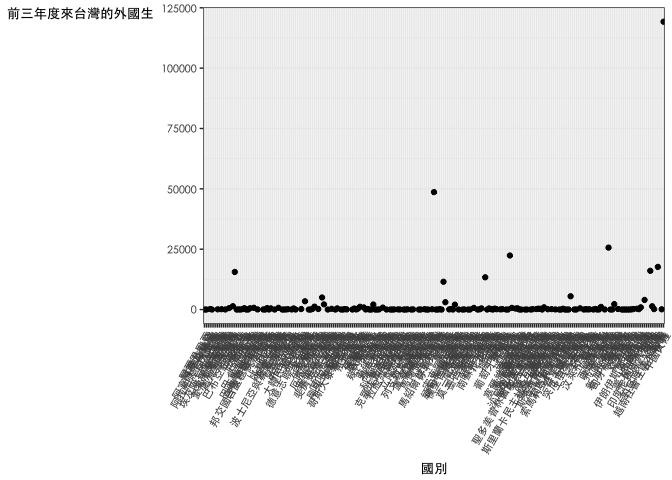
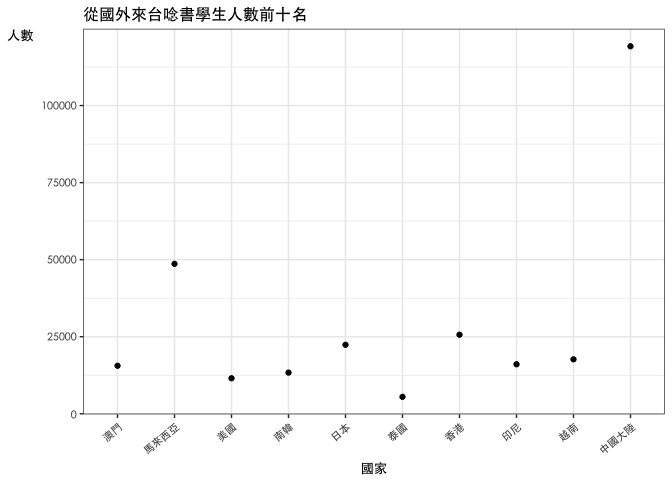
final

diff --git a/InternationalStudents.md b/InternationalStudents.md
@@ -14,6 +14,7 @@
 ``` r
 #這是R Code Chunk
 
+##依照國家分類
 library(readr)
 X104 <- read_csv("~/Downloads/104.csv")
 ```
@@ -86,7 +87,7 @@ X106$各國人數加總106<-rowSums(X106[,3:11])
 X106new<-X106[,c(T,T,F,F,F,F,F,F,F,F,F,T)]
 
 
-#依照校別
+#依照校別分類
 library(readr)
 X104school <- read_csv("~/Downloads/104school.csv")
 ```
@@ -282,6 +283,7 @@ Countrychang<-Countryname[,c(F,T,F,F,F,F,T,F,F)]
 colnames(Countrychang)<-c("國家名稱縮寫", "國別")
 library(dplyr)
 J040506new<-left_join(J040506,Countrychang,by="國別")
+
 J040506new$國家名稱縮寫[1]<-("CHN")
 J040506new$國家名稱縮寫[8]<-("KOR")
 J040506new$國家名稱縮寫[12]<-("SGP")
@@ -354,9 +356,9 @@ p
 
 <!--html_preserve-->
 
-<script type="application/json" data-for="63d66d7bd32f">{"x":{"visdat":{"63d630b9560":["function () ","plotlyVisDat"]},"cur_data":"63d630b9560","attrs":{"63d630b9560":{"z":{},"text":{},"locations":{},"marker":{"line":{"color":"rgba(190,190,190,1)","width":0.8}},"color":{},"colors":"Purples","alpha":1,"sizes":[10,100],"type":"choropleth"}},"layout":{"margin":{"b":40,"l":60,"t":25,"r":10},"title":"Numbers of All exchange students","geo":{"showframe":false,"showcountries":true,"showcoastlines":true,"coastlinecolor":"rgba(190,190,190,1)","countrycolor":"rgba(190,190,190,1)"},"scene":{"zaxis":{"title":"三年度加總"}},"xaxis":{"domain":[0,1]},"yaxis":{"domain":[0,1]},"hovermode":"closest","showlegend":false,"legend":{"y":0.5,"yanchor":"top"}},"source":"A","config":{"modeBarButtonsToAdd":[{"name":"Collaborate","icon":{"width":1000,"ascent":500,"descent":-50,"path":"M487 375c7-10 9-23 5-36l-79-259c-3-12-11-23-22-31-11-8-22-12-35-12l-263 0c-15 0-29 5-43 15-13 10-23 23-28 37-5 13-5 25-1 37 0 0 0 3 1 7 1 5 1 8 1 11 0 2 0 4-1 6 0 3-1 5-1 6 1 2 2 4 3 6 1 2 2 4 4 6 2 3 4 5 5 7 5 7 9 16 13 26 4 10 7 19 9 26 0 2 0 5 0 9-1 4-1 6 0 8 0 2 2 5 4 8 3 3 5 5 5 7 4 6 8 15 12 26 4 11 7 19 7 26 1 1 0 4 0 9-1 4-1 7 0 8 1 2 3 5 6 8 4 4 6 6 6 7 4 5 8 13 13 24 4 11 7 20 7 28 1 1 0 4 0 7-1 3-1 6-1 7 0 2 1 4 3 6 1 1 3 4 5 6 2 3 3 5 5 6 1 2 3 5 4 9 2 3 3 7 5 10 1 3 2 6 4 10 2 4 4 7 6 9 2 3 4 5 7 7 3 2 7 3 11 3 3 0 8 0 13-1l0-1c7 2 12 2 14 2l218 0c14 0 25-5 32-16 8-10 10-23 6-37l-79-259c-7-22-13-37-20-43-7-7-19-10-37-10l-248 0c-5 0-9-2-11-5-2-3-2-7 0-12 4-13 18-20 41-20l264 0c5 0 10 2 16 5 5 3 8 6 10 11l85 282c2 5 2 10 2 17 7-3 13-7 17-13z m-304 0c-1-3-1-5 0-7 1-1 3-2 6-2l174 0c2 0 4 1 7 2 2 2 4 4 5 7l6 18c0 3 0 5-1 7-1 1-3 2-6 2l-173 0c-3 0-5-1-8-2-2-2-4-4-4-7z m-24-73c-1-3-1-5 0-7 2-2 3-2 6-2l174 0c2 0 5 0 7 2 3 2 4 4 5 7l6 18c1 2 0 5-1 6-1 2-3 3-5 3l-174 0c-3 0-5-1-7-3-3-1-4-4-5-6z"},"click":"function(gd) { \n        // is this being viewed in RStudio?\n        if (location.search == '?viewer_pane=1') {\n          alert('To learn about plotly for collaboration, visit:\\n https://cpsievert.github.io/plotly_book/plot-ly-for-collaboration.html');\n        } else {\n          window.open('https://cpsievert.github.io/plotly_book/plot-ly-for-collaboration.html', '_blank');\n        }\n      }"}],"cloud":false},"data":[{"colorbar":{"title":"三年度加總","ticklen":2,"len":0.5,"y":1,"lenmode":"fraction","yanchor":"top"},"colorscale":[["0","rgba(252,251,253,1)"],["8.38679917809368e-06","rgba(252,251,253,1)"],["2.02680980137264e-05","rgba(252,251,253,1)"],["3.04021470205896e-05","rgba(252,251,253,1)"],["4.19339958904684e-05","rgba(252,251,253,1)"],["5.03207950685621e-05","rgba(252,251,253,1)"],["6.91910932192729e-05","rgba(252,251,253,1)"],["9.22547909590305e-05","rgba(252,251,253,1)"],["0.00011461958876728","rgba(252,251,253,1)"],["0.00015934918438378","rgba(252,251,253,1)"],["0.000278861072671615","rgba(252,251,253,1)"],["0.000370416963699137","rgba(252,251,253,1)"],["0.00047804755315134","rgba(252,251,253,1)"],["0.000776128373939419","rgba(252,251,253,1)"],["0.00118603318376875","rgba(252,251,253,1)"],["0.00149704365328972","rgba(252,251,253,1)"],["0.00171649823178317","rgba(252,251,253,1)"],["0.00243147286171566","rgba(252,251,253,1)"],["0.00344068436281293","rgba(252,251,253,1)"],["0.00431815322682098","rgba(252,251,253,1)"],["0.00577151563439147","rgba(251,250,253,1)"],["0.00931668553696482","rgba(251,250,252,1)"],["0.0184355823933129","rgba(250,249,252,1)"],["0.108827455584909","rgba(241,239,246,1)"],["1","rgba(63,0,125,1)"]],"showscale":true,"z":[119236,48646,25654,22384,17665,16061,15579,13361,11518,5500,5001,3988,3435,3038,2240,2142,2074,2034,1387,1357,1200,1150,1089,941,923,872,806,721,710,685,673,602,597,555,542,530,517,490,483,483,480,461,425,413,406,386,346,338,329,306,301,279,235,235,227,222,221,207,205,201,197,194,191,189,183,179,163,162,147,146,144,143,143,136,133,124,123,110,99,95,90,90,79,66,65,59,58,58,57,57,53,50,49,48,44,40,39,39,39,38,37,34,34,34,26,25,23,21,20,20,20,20,18,17,15,15,14,14,13,13,12,12,12,12,11,11,11,10,10,10,9,8,8,8,7,7,7,7,6,6,6,6,6,6,6,6,6,5,5,5,5,5,4,4,4,4,4,4,4,3,3,3,3,3,3,2,2,2,1,1,1,1,1,1],"text":["中國大陸","馬來西亞","香港","日本","越南","印尼","澳門","南韓","美國","泰國","法國","印度","德國","蒙古","新加坡","菲律賓","加拿大","緬甸","澳大利亞","英國","俄羅斯","荷蘭","西班牙","史瓦濟蘭","義大利","宏都拉斯","捷克","巴西","波蘭","瑞典","墨西哥","奧地利","貝里斯","巴拉圭","巴拿馬","土耳其","薩爾瓦多","比利時","南非","甘比亞","尼加拉瓜","布吉納法索","海地","瓜地馬拉","瑞士","紐西蘭","聖露西亞","索羅門群島","衣索比亞","芬蘭","聖文森","多明尼加","匈牙利","厄瓜多","吉里巴斯","烏克蘭","聖克里斯多福","丹麥","阿根廷","秘魯","伊朗","哥倫比亞","約旦","斯洛伐克","尼泊爾","巴基斯坦","葡萄牙","以色列","帛琉","馬紹爾群島共和國","愛爾蘭","聖多美普林西比","羅馬尼亞","挪威","吐瓦魯","斯里蘭卡","馬拉威","智利","汶萊","埃及","奈及利亞","立陶宛","諾魯","肯亞","哥斯大黎加","斯洛維尼亞","孟加拉","巴布亞紐幾內亞","寮國","委內瑞拉","白俄羅斯","摩洛哥","伊拉克","克羅埃西亞","哈薩克","玻利維亞","吉爾吉斯","柬埔寨","希臘","不丹","烏茲別克","保加利亞","拉脫維亞","愛沙尼亞","辛巴威","坦尚尼亞","葉門","盧森堡","塔吉克","突尼西亞","烏干達","塞爾維亞共和國","剛果","巴勒斯坦","喀麥隆","象牙海岸","模里西斯","烏拉圭","斐濟","尚比亞","阿拉伯聯合大公國","亞美尼亞","莫三比克","查德","沙烏地阿拉伯","土庫曼","蒲隆地","波札那","阿爾及利亞","波士尼亞與赫塞哥維納","貝南","敘利亞","蘇丹","冰島","黎巴嫩","馬其頓","千里達","牙買加","巴林","多哥","加彭","盧安達","塞內加爾","科索沃共和國","剛果民主共和國","索馬利蘭共和國","巴哈馬","獅子山共和國","納米比亞","馬爾他","摩納哥","巴貝多","科威特","亞塞拜然","賴比瑞亞","馬達加斯加","多米尼克","阿爾巴尼亞","蓋亞那","摩爾多瓦","迦納","利比亞","古巴","賽普勒斯","南蘇丹共和國","索馬利亞民主共和國","幾內亞","蘇利南","密克羅尼西亞","茅利塔尼亞","尼日","北韓","幾內亞比索","馬利"],"locations":["中國大陸","馬來西亞","香港","日本","越南","印尼","澳門","南韓","美國","泰國","法國","印度","德國","蒙古","新加坡","菲律賓","加拿大","緬甸","澳大利亞","英國","俄羅斯","荷蘭","西班牙","史瓦濟蘭","義大利","宏都拉斯","捷克","巴西","波蘭","瑞典","墨西哥","奧地利","貝里斯","巴拉圭","巴拿馬","土耳其","薩爾瓦多","比利時","南非","甘比亞","尼加拉瓜","布吉納法索","海地","瓜地馬拉","瑞士","紐西蘭","聖露西亞","索羅門群島","衣索比亞","芬蘭","聖文森","多明尼加","匈牙利","厄瓜多","吉里巴斯","烏克蘭","聖克里斯多福","丹麥","阿根廷","秘魯","伊朗","哥倫比亞","約旦","斯洛伐克","尼泊爾","巴基斯坦","葡萄牙","以色列","帛琉","馬紹爾群島共和國","愛爾蘭","聖多美普林西比","羅馬尼亞","挪威","吐瓦魯","斯里蘭卡","馬拉威","智利","汶萊","埃及","奈及利亞","立陶宛","諾魯","肯亞","哥斯大黎加","斯洛維尼亞","孟加拉","巴布亞紐幾內亞","寮國","委內瑞拉","白俄羅斯","摩洛哥","伊拉克","克羅埃西亞","哈薩克","玻利維亞","吉爾吉斯","柬埔寨","希臘","不丹","烏茲別克","保加利亞","拉脫維亞","愛沙尼亞","辛巴威","坦尚尼亞","葉門","盧森堡","塔吉克","突尼西亞","烏干達","塞爾維亞共和國","剛果","巴勒斯坦","喀麥隆","象牙海岸","模里西斯","烏拉圭","斐濟","尚比亞","阿拉伯聯合大公國","亞美尼亞","莫三比克","查德","沙烏地阿拉伯","土庫曼","蒲隆地","波札那","阿爾及利亞","波士尼亞與赫塞哥維納","貝南","敘利亞","蘇丹","冰島","黎巴嫩","馬其頓","千里達","牙買加","巴林","多哥","加彭","盧安達","塞內加爾","科索沃共和國","剛果民主共和國","索馬利蘭共和國","巴哈馬","獅子山共和國","納米比亞","馬爾他","摩納哥","巴貝多","科威特","亞塞拜然","賴比瑞亞","馬達加斯加","多米尼克","阿爾巴尼亞","蓋亞那","摩爾多瓦","迦納","利比亞","古巴","賽普勒斯","南蘇丹共和國","索馬利亞民主共和國","幾內亞","蘇利南","密克羅尼西亞","茅利塔尼亞","尼日","北韓","幾內亞比索","馬利"],"marker":{"line":{"color":"rgba(190,190,190,1)","width":0.8}},"type":"choropleth","frame":null}],"highlight":{"on":"plotly_click","persistent":false,"dynamic":false,"selectize":false,"opacityDim":0.2,"selected":{"opacity":1}},"base_url":"https://plot.ly"},"evals":["config.modeBarButtonsToAdd.0.click"],"jsHooks":{"render":[{"code":"function(el, x) { var ctConfig = crosstalk.var('plotlyCrosstalkOpts').set({\"on\":\"plotly_click\",\"persistent\":false,\"dynamic\":false,\"selectize\":false,\"opacityDim\":0.2,\"selected\":{\"opacity\":1}}); }","data":null}]}}</script>
+<script type="application/json" data-for="65e06f4a4487">{"x":{"visdat":{"65e0432bc7cc":["function () ","plotlyVisDat"]},"cur_data":"65e0432bc7cc","attrs":{"65e0432bc7cc":{"z":{},"text":{},"locations":{},"marker":{"line":{"color":"rgba(190,190,190,1)","width":0.8}},"color":{},"colors":"Purples","alpha":1,"sizes":[10,100],"type":"choropleth"}},"layout":{"margin":{"b":40,"l":60,"t":25,"r":10},"title":"Numbers of All exchange students","geo":{"showframe":false,"showcountries":true,"showcoastlines":true,"coastlinecolor":"rgba(190,190,190,1)","countrycolor":"rgba(190,190,190,1)"},"scene":{"zaxis":{"title":"三年度加總"}},"xaxis":{"domain":[0,1]},"yaxis":{"domain":[0,1]},"hovermode":"closest","showlegend":false,"legend":{"y":0.5,"yanchor":"top"}},"source":"A","config":{"modeBarButtonsToAdd":[{"name":"Collaborate","icon":{"width":1000,"ascent":500,"descent":-50,"path":"M487 375c7-10 9-23 5-36l-79-259c-3-12-11-23-22-31-11-8-22-12-35-12l-263 0c-15 0-29 5-43 15-13 10-23 23-28 37-5 13-5 25-1 37 0 0 0 3 1 7 1 5 1 8 1 11 0 2 0 4-1 6 0 3-1 5-1 6 1 2 2 4 3 6 1 2 2 4 4 6 2 3 4 5 5 7 5 7 9 16 13 26 4 10 7 19 9 26 0 2 0 5 0 9-1 4-1 6 0 8 0 2 2 5 4 8 3 3 5 5 5 7 4 6 8 15 12 26 4 11 7 19 7 26 1 1 0 4 0 9-1 4-1 7 0 8 1 2 3 5 6 8 4 4 6 6 6 7 4 5 8 13 13 24 4 11 7 20 7 28 1 1 0 4 0 7-1 3-1 6-1 7 0 2 1 4 3 6 1 1 3 4 5 6 2 3 3 5 5 6 1 2 3 5 4 9 2 3 3 7 5 10 1 3 2 6 4 10 2 4 4 7 6 9 2 3 4 5 7 7 3 2 7 3 11 3 3 0 8 0 13-1l0-1c7 2 12 2 14 2l218 0c14 0 25-5 32-16 8-10 10-23 6-37l-79-259c-7-22-13-37-20-43-7-7-19-10-37-10l-248 0c-5 0-9-2-11-5-2-3-2-7 0-12 4-13 18-20 41-20l264 0c5 0 10 2 16 5 5 3 8 6 10 11l85 282c2 5 2 10 2 17 7-3 13-7 17-13z m-304 0c-1-3-1-5 0-7 1-1 3-2 6-2l174 0c2 0 4 1 7 2 2 2 4 4 5 7l6 18c0 3 0 5-1 7-1 1-3 2-6 2l-173 0c-3 0-5-1-8-2-2-2-4-4-4-7z m-24-73c-1-3-1-5 0-7 2-2 3-2 6-2l174 0c2 0 5 0 7 2 3 2 4 4 5 7l6 18c1 2 0 5-1 6-1 2-3 3-5 3l-174 0c-3 0-5-1-7-3-3-1-4-4-5-6z"},"click":"function(gd) { \n        // is this being viewed in RStudio?\n        if (location.search == '?viewer_pane=1') {\n          alert('To learn about plotly for collaboration, visit:\\n https://cpsievert.github.io/plotly_book/plot-ly-for-collaboration.html');\n        } else {\n          window.open('https://cpsievert.github.io/plotly_book/plot-ly-for-collaboration.html', '_blank');\n        }\n      }"}],"cloud":false},"data":[{"colorbar":{"title":"三年度加總","ticklen":2,"len":0.5,"y":1,"lenmode":"fraction","yanchor":"top"},"colorscale":[["0","rgba(252,251,253,1)"],["8.38679917809368e-06","rgba(252,251,253,1)"],["2.02680980137264e-05","rgba(252,251,253,1)"],["3.04021470205896e-05","rgba(252,251,253,1)"],["4.19339958904684e-05","rgba(252,251,253,1)"],["5.03207950685621e-05","rgba(252,251,253,1)"],["6.91910932192729e-05","rgba(252,251,253,1)"],["9.22547909590305e-05","rgba(252,251,253,1)"],["0.00011461958876728","rgba(252,251,253,1)"],["0.00015934918438378","rgba(252,251,253,1)"],["0.000278861072671615","rgba(252,251,253,1)"],["0.000370416963699137","rgba(252,251,253,1)"],["0.00047804755315134","rgba(252,251,253,1)"],["0.000776128373939419","rgba(252,251,253,1)"],["0.00118603318376875","rgba(252,251,253,1)"],["0.00149704365328972","rgba(252,251,253,1)"],["0.00171649823178317","rgba(252,251,253,1)"],["0.00243147286171566","rgba(252,251,253,1)"],["0.00344068436281293","rgba(252,251,253,1)"],["0.00431815322682098","rgba(252,251,253,1)"],["0.00577151563439147","rgba(251,250,253,1)"],["0.00931668553696482","rgba(251,250,252,1)"],["0.0184355823933129","rgba(250,249,252,1)"],["0.108827455584909","rgba(241,239,246,1)"],["1","rgba(63,0,125,1)"]],"showscale":true,"z":[119236,48646,25654,22384,17665,16061,15579,13361,11518,5500,5001,3988,3435,3038,2240,2142,2074,2034,1387,1357,1200,1150,1089,941,923,872,806,721,710,685,673,602,597,555,542,530,517,490,483,483,480,461,425,413,406,386,346,338,329,306,301,279,235,235,227,222,221,207,205,201,197,194,191,189,183,179,163,162,147,146,144,143,143,136,133,124,123,110,99,95,90,90,79,66,65,59,58,58,57,57,53,50,49,48,44,40,39,39,39,38,37,34,34,34,26,25,23,21,20,20,20,20,18,17,15,15,14,14,13,13,12,12,12,12,11,11,11,10,10,10,9,8,8,8,7,7,7,7,6,6,6,6,6,6,6,6,6,5,5,5,5,5,4,4,4,4,4,4,4,3,3,3,3,3,3,2,2,2,1,1,1,1,1,1],"text":["中國大陸","馬來西亞","香港","日本","越南","印尼","澳門","南韓","美國","泰國","法國","印度","德國","蒙古","新加坡","菲律賓","加拿大","緬甸","澳大利亞","英國","俄羅斯","荷蘭","西班牙","史瓦濟蘭","義大利","宏都拉斯","捷克","巴西","波蘭","瑞典","墨西哥","奧地利","貝里斯","巴拉圭","巴拿馬","土耳其","薩爾瓦多","比利時","南非","甘比亞","尼加拉瓜","布吉納法索","海地","瓜地馬拉","瑞士","紐西蘭","聖露西亞","索羅門群島","衣索比亞","芬蘭","聖文森","多明尼加","匈牙利","厄瓜多","吉里巴斯","烏克蘭","聖克里斯多福","丹麥","阿根廷","秘魯","伊朗","哥倫比亞","約旦","斯洛伐克","尼泊爾","巴基斯坦","葡萄牙","以色列","帛琉","馬紹爾群島共和國","愛爾蘭","聖多美普林西比","羅馬尼亞","挪威","吐瓦魯","斯里蘭卡","馬拉威","智利","汶萊","埃及","奈及利亞","立陶宛","諾魯","肯亞","哥斯大黎加","斯洛維尼亞","孟加拉","巴布亞紐幾內亞","寮國","委內瑞拉","白俄羅斯","摩洛哥","伊拉克","克羅埃西亞","哈薩克","玻利維亞","吉爾吉斯","柬埔寨","希臘","不丹","烏茲別克","保加利亞","拉脫維亞","愛沙尼亞","辛巴威","坦尚尼亞","葉門","盧森堡","塔吉克","突尼西亞","烏干達","塞爾維亞共和國","剛果","巴勒斯坦","喀麥隆","象牙海岸","模里西斯","烏拉圭","斐濟","尚比亞","阿拉伯聯合大公國","亞美尼亞","莫三比克","查德","沙烏地阿拉伯","土庫曼","蒲隆地","波札那","阿爾及利亞","波士尼亞與赫塞哥維納","貝南","敘利亞","蘇丹","冰島","黎巴嫩","馬其頓","千里達","牙買加","巴林","多哥","加彭","盧安達","塞內加爾","科索沃共和國","剛果民主共和國","索馬利蘭共和國","巴哈馬","獅子山共和國","納米比亞","馬爾他","摩納哥","巴貝多","科威特","亞塞拜然","賴比瑞亞","馬達加斯加","多米尼克","阿爾巴尼亞","蓋亞那","摩爾多瓦","迦納","利比亞","古巴","賽普勒斯","南蘇丹共和國","索馬利亞民主共和國","幾內亞","蘇利南","密克羅尼西亞","茅利塔尼亞","尼日","北韓","幾內亞比索","馬利"],"locations":["中國大陸","馬來西亞","香港","日本","越南","印尼","澳門","南韓","美國","泰國","法國","印度","德國","蒙古","新加坡","菲律賓","加拿大","緬甸","澳大利亞","英國","俄羅斯","荷蘭","西班牙","史瓦濟蘭","義大利","宏都拉斯","捷克","巴西","波蘭","瑞典","墨西哥","奧地利","貝里斯","巴拉圭","巴拿馬","土耳其","薩爾瓦多","比利時","南非","甘比亞","尼加拉瓜","布吉納法索","海地","瓜地馬拉","瑞士","紐西蘭","聖露西亞","索羅門群島","衣索比亞","芬蘭","聖文森","多明尼加","匈牙利","厄瓜多","吉里巴斯","烏克蘭","聖克里斯多福","丹麥","阿根廷","秘魯","伊朗","哥倫比亞","約旦","斯洛伐克","尼泊爾","巴基斯坦","葡萄牙","以色列","帛琉","馬紹爾群島共和國","愛爾蘭","聖多美普林西比","羅馬尼亞","挪威","吐瓦魯","斯里蘭卡","馬拉威","智利","汶萊","埃及","奈及利亞","立陶宛","諾魯","肯亞","哥斯大黎加","斯洛維尼亞","孟加拉","巴布亞紐幾內亞","寮國","委內瑞拉","白俄羅斯","摩洛哥","伊拉克","克羅埃西亞","哈薩克","玻利維亞","吉爾吉斯","柬埔寨","希臘","不丹","烏茲別克","保加利亞","拉脫維亞","愛沙尼亞","辛巴威","坦尚尼亞","葉門","盧森堡","塔吉克","突尼西亞","烏干達","塞爾維亞共和國","剛果","巴勒斯坦","喀麥隆","象牙海岸","模里西斯","烏拉圭","斐濟","尚比亞","阿拉伯聯合大公國","亞美尼亞","莫三比克","查德","沙烏地阿拉伯","土庫曼","蒲隆地","波札那","阿爾及利亞","波士尼亞與赫塞哥維納","貝南","敘利亞","蘇丹","冰島","黎巴嫩","馬其頓","千里達","牙買加","巴林","多哥","加彭","盧安達","塞內加爾","科索沃共和國","剛果民主共和國","索馬利蘭共和國","巴哈馬","獅子山共和國","納米比亞","馬爾他","摩納哥","巴貝多","科威特","亞塞拜然","賴比瑞亞","馬達加斯加","多米尼克","阿爾巴尼亞","蓋亞那","摩爾多瓦","迦納","利比亞","古巴","賽普勒斯","南蘇丹共和國","索馬利亞民主共和國","幾內亞","蘇利南","密克羅尼西亞","茅利塔尼亞","尼日","北韓","幾內亞比索","馬利"],"marker":{"line":{"color":"rgba(190,190,190,1)","width":0.8}},"type":"choropleth","frame":null}],"highlight":{"on":"plotly_click","persistent":false,"dynamic":false,"selectize":false,"opacityDim":0.2,"selected":{"opacity":1}},"base_url":"https://plot.ly"},"evals":["config.modeBarButtonsToAdd.0.click"],"jsHooks":{"render":[{"code":"function(el, x) { var ctConfig = crosstalk.var('plotlyCrosstalkOpts').set({\"on\":\"plotly_click\",\"persistent\":false,\"dynamic\":false,\"selectize\":false,\"opacityDim\":0.2,\"selected\":{\"opacity\":1}}); }","data":null}]}}</script>
 <!--/html_preserve-->
-![test](https://github.com/CGUIM-BigDataAnalysis/106bigdatacguimhw2-B0444125/blob/master/abc.png)
+![test](/Users/bellahuang/Documents/GitHub/106bigdatacguimhw2-B0444125/abc.png)
 
 台灣學生國際交流分析
 --------------------
@@ -547,9 +549,9 @@ q
 
 <!--html_preserve-->
 
-<script type="application/json" data-for="63d666fca9cd">{"x":{"visdat":{"63d66d2a19b0":["function () ","plotlyVisDat"]},"cur_data":"63d66d2a19b0","attrs":{"63d66d2a19b0":{"z":{},"text":{},"locations":{},"marker":{"line":{"color":"rgba(190,190,190,1)","width":0.8}},"color":{},"colors":"Blues","alpha":1,"sizes":[10,100],"type":"choropleth"}},"layout":{"margin":{"b":40,"l":60,"t":25,"r":10},"title":"Number of Taiwanese students studying in other countries ","geo":{"showframe":false,"showcountries":true,"showcoastlines":true,"coastlinecolor":"rgba(190,190,190,1)","countrycolor":"rgba(190,190,190,1)"},"scene":{"zaxis":{"title":"各國總人數"}},"xaxis":{"domain":[0,1]},"yaxis":{"domain":[0,1]},"hovermode":"closest","showlegend":false,"legend":{"y":0.5,"yanchor":"top"}},"source":"A","config":{"modeBarButtonsToAdd":[{"name":"Collaborate","icon":{"width":1000,"ascent":500,"descent":-50,"path":"M487 375c7-10 9-23 5-36l-79-259c-3-12-11-23-22-31-11-8-22-12-35-12l-263 0c-15 0-29 5-43 15-13 10-23 23-28 37-5 13-5 25-1 37 0 0 0 3 1 7 1 5 1 8 1 11 0 2 0 4-1 6 0 3-1 5-1 6 1 2 2 4 3 6 1 2 2 4 4 6 2 3 4 5 5 7 5 7 9 16 13 26 4 10 7 19 9 26 0 2 0 5 0 9-1 4-1 6 0 8 0 2 2 5 4 8 3 3 5 5 5 7 4 6 8 15 12 26 4 11 7 19 7 26 1 1 0 4 0 9-1 4-1 7 0 8 1 2 3 5 6 8 4 4 6 6 6 7 4 5 8 13 13 24 4 11 7 20 7 28 1 1 0 4 0 7-1 3-1 6-1 7 0 2 1 4 3 6 1 1 3 4 5 6 2 3 3 5 5 6 1 2 3 5 4 9 2 3 3 7 5 10 1 3 2 6 4 10 2 4 4 7 6 9 2 3 4 5 7 7 3 2 7 3 11 3 3 0 8 0 13-1l0-1c7 2 12 2 14 2l218 0c14 0 25-5 32-16 8-10 10-23 6-37l-79-259c-7-22-13-37-20-43-7-7-19-10-37-10l-248 0c-5 0-9-2-11-5-2-3-2-7 0-12 4-13 18-20 41-20l264 0c5 0 10 2 16 5 5 3 8 6 10 11l85 282c2 5 2 10 2 17 7-3 13-7 17-13z m-304 0c-1-3-1-5 0-7 1-1 3-2 6-2l174 0c2 0 4 1 7 2 2 2 4 4 5 7l6 18c0 3 0 5-1 7-1 1-3 2-6 2l-173 0c-3 0-5-1-8-2-2-2-4-4-4-7z m-24-73c-1-3-1-5 0-7 2-2 3-2 6-2l174 0c2 0 5 0 7 2 3 2 4 4 5 7l6 18c1 2 0 5-1 6-1 2-3 3-5 3l-174 0c-3 0-5-1-7-3-3-1-4-4-5-6z"},"click":"function(gd) { \n        // is this being viewed in RStudio?\n        if (location.search == '?viewer_pane=1') {\n          alert('To learn about plotly for collaboration, visit:\\n https://cpsievert.github.io/plotly_book/plot-ly-for-collaboration.html');\n        } else {\n          window.open('https://cpsievert.github.io/plotly_book/plot-ly-for-collaboration.html', '_blank');\n        }\n      }"}],"cloud":false},"data":[{"colorbar":{"title":"各國總人數","ticklen":2,"len":0.5,"y":1,"lenmode":"fraction","yanchor":"top"},"colorscale":[["0","rgba(247,251,255,1)"],["3.01713734009172e-05","rgba(247,251,255,1)"],["8.04569957357792e-05","rgba(247,251,255,1)"],["0.000160913991471558","rgba(247,251,255,1)"],["0.000241370987207338","rgba(247,251,255,1)"],["0.000321827982943117","rgba(247,251,255,1)"],["0.000482741974414675","rgba(247,251,255,1)"],["0.000724112961622013","rgba(247,251,255,1)"],["0.000804569957357792","rgba(247,251,255,1)"],["0.000885026953093572","rgba(247,251,255,1)"],["0.00128731193177247","rgba(247,251,255,1)"],["0.00187062515085687","rgba(247,251,255,1)"],["0.00265508085928071","rgba(246,251,255,1)"],["0.00321827982943117","rgba(246,251,255,1)"],["0.00587336068871188","rgba(246,250,255,1)"],["0.00823678493845039","rgba(245,250,254,1)"],["0.0109622656689999","rgba(245,250,254,1)"],["0.0182838522809558","rgba(243,249,254,1)"],["0.0273956070480328","rgba(242,247,253,1)"],["0.0383176442191649","rgba(239,246,253,1)"],["0.0799139110145627","rgba(231,241,250,1)"],["0.167099123018746","rgba(214,230,244,1)"],["1","rgba(8,48,107,1)"]],"showscale":true,"z":[3,1,6,21,25,38,34,2,14,278,262,926,73,21,11,10,7,2,1,16,7,161,132,13,2,153,94,3,2131,5996,74,54,1706,1458,348,226,6,5,2415,93,157,1,1,222,106,4,5,1,1,1,476,349,1180,35,25,377,321,2,1,58,10,4,7,10,23,41,1,1,3,11,3,4,1017,8916,2,10,2,4,12,1,5,3,10,2,26,17,8,6,2498,11,1,232,67,34,31,10,12430,352,209,335,4,1,8,1,1,3,6,4,1,3,11,26,19,5,17,424,567,9,13,121,82,1,12,774,478,12,4,1029,678,479,88,20,1,1,57,247,103,41,74,120,36,1416,12,10,122,112,37,10429],"text":["AFG","OMN","OMN","EGY","EGY","IRL","IRL","EST","EST","AUT","AUT","AUS","MAC","PAN","PAN","BRA","BRA","BLR","KIR","PRK","BLZ","BEL","BEL","ISL","ISL","POL","POL","PLW","KOR","CHN","DNK","DNK","DEU","DEU","RUS","RUS","ECU","ECU","FRA","PHL","PHL","FJI","FJI","FIN","FIN","GMB","COL","CRI","CRI","GRD","NLD","NLD","CAN","KHM","KHM","CZE","CZE","QAT","","KWT","HRV","HRV","LVA","LVA","LTU","LTU","LIE","LIE","LUX","ROU","MLT","MWI","MYS","USA","MNG","MNG","BGD","PER","MMR","MUS","MAR","MAR","MCO","MOZ","MEX","MEX","ZAF","ZAF","KOR","NPL","NER","NZL","NOR","NOR","PRT","PRT","JPN","SWE","SWE","CHE","SRB","SYC","SAU","SAU","STP","STP","SWZ","SWZ","LKA","LKA","SVK","SVK","SVN","SVN","SLB","THA","THA","TUN","TUN","TUR","TUR","BRN","BRN","ESP","ESP","GRC","GRC","HKG","SGP","SGP","HUN","HUN","JAM","IRN","ISR","ITA","ITA","IND","IND","IDN","IDN","GBR","JOR","JOR","VNM","VNM","CHL","CHN"],"locations":["AFG","OMN","OMN","EGY","EGY","IRL","IRL","EST","EST","AUT","AUT","AUS","MAC","PAN","PAN","BRA","BRA","BLR","KIR","PRK","BLZ","BEL","BEL","ISL","ISL","POL","POL","PLW","KOR","CHN","DNK","DNK","DEU","DEU","RUS","RUS","ECU","ECU","FRA","PHL","PHL","FJI","FJI","FIN","FIN","GMB","COL","CRI","CRI","GRD","NLD","NLD","CAN","KHM","KHM","CZE","CZE","QAT","","KWT","HRV","HRV","LVA","LVA","LTU","LTU","LIE","LIE","LUX","ROU","MLT","MWI","MYS","USA","MNG","MNG","BGD","PER","MMR","MUS","MAR","MAR","MCO","MOZ","MEX","MEX","ZAF","ZAF","KOR","NPL","NER","NZL","NOR","NOR","PRT","PRT","JPN","SWE","SWE","CHE","SRB","SYC","SAU","SAU","STP","STP","SWZ","SWZ","LKA","LKA","SVK","SVK","SVN","SVN","SLB","THA","THA","TUN","TUN","TUR","TUR","BRN","BRN","ESP","ESP","GRC","GRC","HKG","SGP","SGP","HUN","HUN","JAM","IRN","ISR","ITA","ITA","IND","IND","IDN","IDN","GBR","JOR","JOR","VNM","VNM","CHL","CHN"],"marker":{"line":{"color":"rgba(190,190,190,1)","width":0.8}},"type":"choropleth","frame":null}],"highlight":{"on":"plotly_click","persistent":false,"dynamic":false,"selectize":false,"opacityDim":0.2,"selected":{"opacity":1}},"base_url":"https://plot.ly"},"evals":["config.modeBarButtonsToAdd.0.click"],"jsHooks":{"render":[{"code":"function(el, x) { var ctConfig = crosstalk.var('plotlyCrosstalkOpts').set({\"on\":\"plotly_click\",\"persistent\":false,\"dynamic\":false,\"selectize\":false,\"opacityDim\":0.2,\"selected\":{\"opacity\":1}}); }","data":null}]}}</script>
+<script type="application/json" data-for="65e031ea5f36">{"x":{"visdat":{"65e074c30e75":["function () ","plotlyVisDat"]},"cur_data":"65e074c30e75","attrs":{"65e074c30e75":{"z":{},"text":{},"locations":{},"marker":{"line":{"color":"rgba(190,190,190,1)","width":0.8}},"color":{},"colors":"Blues","alpha":1,"sizes":[10,100],"type":"choropleth"}},"layout":{"margin":{"b":40,"l":60,"t":25,"r":10},"title":"Number of Taiwanese students studying in other countries ","geo":{"showframe":false,"showcountries":true,"showcoastlines":true,"coastlinecolor":"rgba(190,190,190,1)","countrycolor":"rgba(190,190,190,1)"},"scene":{"zaxis":{"title":"各國總人數"}},"xaxis":{"domain":[0,1]},"yaxis":{"domain":[0,1]},"hovermode":"closest","showlegend":false,"legend":{"y":0.5,"yanchor":"top"}},"source":"A","config":{"modeBarButtonsToAdd":[{"name":"Collaborate","icon":{"width":1000,"ascent":500,"descent":-50,"path":"M487 375c7-10 9-23 5-36l-79-259c-3-12-11-23-22-31-11-8-22-12-35-12l-263 0c-15 0-29 5-43 15-13 10-23 23-28 37-5 13-5 25-1 37 0 0 0 3 1 7 1 5 1 8 1 11 0 2 0 4-1 6 0 3-1 5-1 6 1 2 2 4 3 6 1 2 2 4 4 6 2 3 4 5 5 7 5 7 9 16 13 26 4 10 7 19 9 26 0 2 0 5 0 9-1 4-1 6 0 8 0 2 2 5 4 8 3 3 5 5 5 7 4 6 8 15 12 26 4 11 7 19 7 26 1 1 0 4 0 9-1 4-1 7 0 8 1 2 3 5 6 8 4 4 6 6 6 7 4 5 8 13 13 24 4 11 7 20 7 28 1 1 0 4 0 7-1 3-1 6-1 7 0 2 1 4 3 6 1 1 3 4 5 6 2 3 3 5 5 6 1 2 3 5 4 9 2 3 3 7 5 10 1 3 2 6 4 10 2 4 4 7 6 9 2 3 4 5 7 7 3 2 7 3 11 3 3 0 8 0 13-1l0-1c7 2 12 2 14 2l218 0c14 0 25-5 32-16 8-10 10-23 6-37l-79-259c-7-22-13-37-20-43-7-7-19-10-37-10l-248 0c-5 0-9-2-11-5-2-3-2-7 0-12 4-13 18-20 41-20l264 0c5 0 10 2 16 5 5 3 8 6 10 11l85 282c2 5 2 10 2 17 7-3 13-7 17-13z m-304 0c-1-3-1-5 0-7 1-1 3-2 6-2l174 0c2 0 4 1 7 2 2 2 4 4 5 7l6 18c0 3 0 5-1 7-1 1-3 2-6 2l-173 0c-3 0-5-1-8-2-2-2-4-4-4-7z m-24-73c-1-3-1-5 0-7 2-2 3-2 6-2l174 0c2 0 5 0 7 2 3 2 4 4 5 7l6 18c1 2 0 5-1 6-1 2-3 3-5 3l-174 0c-3 0-5-1-7-3-3-1-4-4-5-6z"},"click":"function(gd) { \n        // is this being viewed in RStudio?\n        if (location.search == '?viewer_pane=1') {\n          alert('To learn about plotly for collaboration, visit:\\n https://cpsievert.github.io/plotly_book/plot-ly-for-collaboration.html');\n        } else {\n          window.open('https://cpsievert.github.io/plotly_book/plot-ly-for-collaboration.html', '_blank');\n        }\n      }"}],"cloud":false},"data":[{"colorbar":{"title":"各國總人數","ticklen":2,"len":0.5,"y":1,"lenmode":"fraction","yanchor":"top"},"colorscale":[["0","rgba(247,251,255,1)"],["3.01713734009172e-05","rgba(247,251,255,1)"],["8.04569957357792e-05","rgba(247,251,255,1)"],["0.000160913991471558","rgba(247,251,255,1)"],["0.000241370987207338","rgba(247,251,255,1)"],["0.000321827982943117","rgba(247,251,255,1)"],["0.000482741974414675","rgba(247,251,255,1)"],["0.000724112961622013","rgba(247,251,255,1)"],["0.000804569957357792","rgba(247,251,255,1)"],["0.000885026953093572","rgba(247,251,255,1)"],["0.00128731193177247","rgba(247,251,255,1)"],["0.00187062515085687","rgba(247,251,255,1)"],["0.00265508085928071","rgba(246,251,255,1)"],["0.00321827982943117","rgba(246,251,255,1)"],["0.00587336068871188","rgba(246,250,255,1)"],["0.00823678493845039","rgba(245,250,254,1)"],["0.0109622656689999","rgba(245,250,254,1)"],["0.0182838522809558","rgba(243,249,254,1)"],["0.0273956070480328","rgba(242,247,253,1)"],["0.0383176442191649","rgba(239,246,253,1)"],["0.0799139110145627","rgba(231,241,250,1)"],["0.167099123018746","rgba(214,230,244,1)"],["1","rgba(8,48,107,1)"]],"showscale":true,"z":[3,1,6,21,25,38,34,2,14,278,262,926,73,21,11,10,7,2,1,16,7,161,132,13,2,153,94,3,2131,5996,74,54,1706,1458,348,226,6,5,2415,93,157,1,1,222,106,4,5,1,1,1,476,349,1180,35,25,377,321,2,1,58,10,4,7,10,23,41,1,1,3,11,3,4,1017,8916,2,10,2,4,12,1,5,3,10,2,26,17,8,6,2498,11,1,232,67,34,31,10,12430,352,209,335,4,1,8,1,1,3,6,4,1,3,11,26,19,5,17,424,567,9,13,121,82,1,12,774,478,12,4,1029,678,479,88,20,1,1,57,247,103,41,74,120,36,1416,12,10,122,112,37,10429],"text":["AFG","OMN","OMN","EGY","EGY","IRL","IRL","EST","EST","AUT","AUT","AUS","MAC","PAN","PAN","BRA","BRA","BLR","KIR","PRK","BLZ","BEL","BEL","ISL","ISL","POL","POL","PLW","KOR","CHN","DNK","DNK","DEU","DEU","RUS","RUS","ECU","ECU","FRA","PHL","PHL","FJI","FJI","FIN","FIN","GMB","COL","CRI","CRI","GRD","NLD","NLD","CAN","KHM","KHM","CZE","CZE","QAT","","KWT","HRV","HRV","LVA","LVA","LTU","LTU","LIE","LIE","LUX","ROU","MLT","MWI","MYS","USA","MNG","MNG","BGD","PER","MMR","MUS","MAR","MAR","MCO","MOZ","MEX","MEX","ZAF","ZAF","KOR","NPL","NER","NZL","NOR","NOR","PRT","PRT","JPN","SWE","SWE","CHE","SRB","SYC","SAU","SAU","STP","STP","SWZ","SWZ","LKA","LKA","SVK","SVK","SVN","SVN","SLB","THA","THA","TUN","TUN","TUR","TUR","BRN","BRN","ESP","ESP","GRC","GRC","HKG","SGP","SGP","HUN","HUN","JAM","IRN","ISR","ITA","ITA","IND","IND","IDN","IDN","GBR","JOR","JOR","VNM","VNM","CHL","CHN"],"locations":["AFG","OMN","OMN","EGY","EGY","IRL","IRL","EST","EST","AUT","AUT","AUS","MAC","PAN","PAN","BRA","BRA","BLR","KIR","PRK","BLZ","BEL","BEL","ISL","ISL","POL","POL","PLW","KOR","CHN","DNK","DNK","DEU","DEU","RUS","RUS","ECU","ECU","FRA","PHL","PHL","FJI","FJI","FIN","FIN","GMB","COL","CRI","CRI","GRD","NLD","NLD","CAN","KHM","KHM","CZE","CZE","QAT","","KWT","HRV","HRV","LVA","LVA","LTU","LTU","LIE","LIE","LUX","ROU","MLT","MWI","MYS","USA","MNG","MNG","BGD","PER","MMR","MUS","MAR","MAR","MCO","MOZ","MEX","MEX","ZAF","ZAF","KOR","NPL","NER","NZL","NOR","NOR","PRT","PRT","JPN","SWE","SWE","CHE","SRB","SYC","SAU","SAU","STP","STP","SWZ","SWZ","LKA","LKA","SVK","SVK","SVN","SVN","SLB","THA","THA","TUN","TUN","TUR","TUR","BRN","BRN","ESP","ESP","GRC","GRC","HKG","SGP","SGP","HUN","HUN","JAM","IRN","ISR","ITA","ITA","IND","IND","IDN","IDN","GBR","JOR","JOR","VNM","VNM","CHL","CHN"],"marker":{"line":{"color":"rgba(190,190,190,1)","width":0.8}},"type":"choropleth","frame":null}],"highlight":{"on":"plotly_click","persistent":false,"dynamic":false,"selectize":false,"opacityDim":0.2,"selected":{"opacity":1}},"base_url":"https://plot.ly"},"evals":["config.modeBarButtonsToAdd.0.click"],"jsHooks":{"render":[{"code":"function(el, x) { var ctConfig = crosstalk.var('plotlyCrosstalkOpts').set({\"on\":\"plotly_click\",\"persistent\":false,\"dynamic\":false,\"selectize\":false,\"opacityDim\":0.2,\"selected\":{\"opacity\":1}}); }","data":null}]}}</script>
 <!--/html_preserve-->
-![test](https://github.com/CGUIM-BigDataAnalysis/106bigdatacguimhw2-B0444125/blob/master/bbb.png) \#\# 台灣學生出國留學分析
+![test](/Users/bellahuang/Documents/GitHub/106bigdatacguimhw2-B0444125/bbb.png) \#\# 台灣學生出國留學分析
 
 ### 資料匯入與處理
 
@@ -648,43 +650,45 @@ r
 
 <!--html_preserve-->
 
-<script type="application/json" data-for="63d618f3b88e">{"x":{"visdat":{"63d62f384bba":["function () ","plotlyVisDat"]},"cur_data":"63d62f384bba","attrs":{"63d62f384bba":{"z":{},"text":{},"locations":{},"marker":{"line":{"color":"rgba(190,190,190,1)","width":0.8}},"color":{},"colors":"Reds","alpha":1,"sizes":[10,100],"type":"choropleth"}},"layout":{"margin":{"b":40,"l":60,"t":25,"r":10},"title":"Number of Taiwanese students study abroad","geo":{"showframe":false,"showcountries":true,"showcoastlines":true,"coastlinecolor":"rgba(190,190,190,1)","countrycolor":"rgba(190,190,190,1)"},"scene":{"zaxis":{"title":"總人數"}},"xaxis":{"domain":[0,1]},"yaxis":{"domain":[0,1]},"hovermode":"closest","showlegend":false,"legend":{"y":0.5,"yanchor":"top"}},"source":"A","config":{"modeBarButtonsToAdd":[{"name":"Collaborate","icon":{"width":1000,"ascent":500,"descent":-50,"path":"M487 375c7-10 9-23 5-36l-79-259c-3-12-11-23-22-31-11-8-22-12-35-12l-263 0c-15 0-29 5-43 15-13 10-23 23-28 37-5 13-5 25-1 37 0 0 0 3 1 7 1 5 1 8 1 11 0 2 0 4-1 6 0 3-1 5-1 6 1 2 2 4 3 6 1 2 2 4 4 6 2 3 4 5 5 7 5 7 9 16 13 26 4 10 7 19 9 26 0 2 0 5 0 9-1 4-1 6 0 8 0 2 2 5 4 8 3 3 5 5 5 7 4 6 8 15 12 26 4 11 7 19 7 26 1 1 0 4 0 9-1 4-1 7 0 8 1 2 3 5 6 8 4 4 6 6 6 7 4 5 8 13 13 24 4 11 7 20 7 28 1 1 0 4 0 7-1 3-1 6-1 7 0 2 1 4 3 6 1 1 3 4 5 6 2 3 3 5 5 6 1 2 3 5 4 9 2 3 3 7 5 10 1 3 2 6 4 10 2 4 4 7 6 9 2 3 4 5 7 7 3 2 7 3 11 3 3 0 8 0 13-1l0-1c7 2 12 2 14 2l218 0c14 0 25-5 32-16 8-10 10-23 6-37l-79-259c-7-22-13-37-20-43-7-7-19-10-37-10l-248 0c-5 0-9-2-11-5-2-3-2-7 0-12 4-13 18-20 41-20l264 0c5 0 10 2 16 5 5 3 8 6 10 11l85 282c2 5 2 10 2 17 7-3 13-7 17-13z m-304 0c-1-3-1-5 0-7 1-1 3-2 6-2l174 0c2 0 4 1 7 2 2 2 4 4 5 7l6 18c0 3 0 5-1 7-1 1-3 2-6 2l-173 0c-3 0-5-1-8-2-2-2-4-4-4-7z m-24-73c-1-3-1-5 0-7 2-2 3-2 6-2l174 0c2 0 5 0 7 2 3 2 4 4 5 7l6 18c1 2 0 5-1 6-1 2-3 3-5 3l-174 0c-3 0-5-1-7-3-3-1-4-4-5-6z"},"click":"function(gd) { \n        // is this being viewed in RStudio?\n        if (location.search == '?viewer_pane=1') {\n          alert('To learn about plotly for collaboration, visit:\\n https://cpsievert.github.io/plotly_book/plot-ly-for-collaboration.html');\n        } else {\n          window.open('https://cpsievert.github.io/plotly_book/plot-ly-for-collaboration.html', '_blank');\n        }\n      }"}],"cloud":false},"data":[{"colorbar":{"title":"總人數","ticklen":2,"len":0.5,"y":1,"lenmode":"fraction","yanchor":"top"},"colorscale":[["0","rgba(255,245,240,1)"],["7.88917289911325e-06","rgba(255,245,240,1)"],["0.000157783457982265","rgba(255,245,240,1)"],["0.000497017892644135","rgba(255,245,240,1)"],["0.000646912177727287","rgba(255,245,240,1)"],["0.000820473981507779","rgba(255,245,240,1)"],["0.000899365710498911","rgba(255,245,240,1)"],["0.0015462778882262","rgba(255,245,240,1)"],["0.00213007668276058","rgba(255,245,239,1)"],["0.00414181577203446","rgba(255,244,239,1)"],["0.00552242102937928","rgba(255,244,239,1)"],["0.00803906718419641","rgba(255,244,238,1)"],["0.00989302281548802","rgba(255,243,238,1)"],["0.0106030483764082","rgba(255,243,237,1)"],["0.0140585061062198","rgba(255,243,237,1)"],["0.0180346492473729","rgba(255,242,236,1)"],["0.0194862570608097","rgba(255,242,235,1)"],["0.023060052384108","rgba(255,241,234,1)"],["0.0265076209410205","rgba(255,241,234,1)"],["0.0553188803685821","rgba(255,236,227,1)"],["0.107103411278361","rgba(254,227,214,1)"],["0.204487361545016","rgba(253,200,179,1)"],["0.342579443971094","rgba(253,157,126,1)"],["0.602322572501499","rgba(241,69,49,1)"],["1","rgba(103,0,13,1)"]],"showscale":true,"z":[21127,13582,8444,4827,3815,1488,1106,561,502,419,400,364,265,217,210,181,120,113,64,37,33,20,19,15,14,9,2,1,1],"text":["USA","AUS","JPN","CAN","GBR","DEU","NZL","POL","MYS","AUT","NLD","VNM","KOR","THA","IDN","RUS","BEL","SWE","PHL","FIN","DNK","NOR","BRN","IND","LKA","SGP","ISL","NPL","BGD"],"locations":["USA","AUS","JPN","CAN","GBR","DEU","NZL","POL","MYS","AUT","NLD","VNM","KOR","THA","IDN","RUS","BEL","SWE","PHL","FIN","DNK","NOR","BRN","IND","LKA","SGP","ISL","NPL","BGD"],"marker":{"line":{"color":"rgba(190,190,190,1)","width":0.8}},"type":"choropleth","frame":null}],"highlight":{"on":"plotly_click","persistent":false,"dynamic":false,"selectize":false,"opacityDim":0.2,"selected":{"opacity":1}},"base_url":"https://plot.ly"},"evals":["config.modeBarButtonsToAdd.0.click"],"jsHooks":{"render":[{"code":"function(el, x) { var ctConfig = crosstalk.var('plotlyCrosstalkOpts').set({\"on\":\"plotly_click\",\"persistent\":false,\"dynamic\":false,\"selectize\":false,\"opacityDim\":0.2,\"selected\":{\"opacity\":1}}); }","data":null}]}}</script>
+<script type="application/json" data-for="65e0351426c0">{"x":{"visdat":{"65e040f770e2":["function () ","plotlyVisDat"]},"cur_data":"65e040f770e2","attrs":{"65e040f770e2":{"z":{},"text":{},"locations":{},"marker":{"line":{"color":"rgba(190,190,190,1)","width":0.8}},"color":{},"colors":"Reds","alpha":1,"sizes":[10,100],"type":"choropleth"}},"layout":{"margin":{"b":40,"l":60,"t":25,"r":10},"title":"Number of Taiwanese students study abroad","geo":{"showframe":false,"showcountries":true,"showcoastlines":true,"coastlinecolor":"rgba(190,190,190,1)","countrycolor":"rgba(190,190,190,1)"},"scene":{"zaxis":{"title":"總人數"}},"xaxis":{"domain":[0,1]},"yaxis":{"domain":[0,1]},"hovermode":"closest","showlegend":false,"legend":{"y":0.5,"yanchor":"top"}},"source":"A","config":{"modeBarButtonsToAdd":[{"name":"Collaborate","icon":{"width":1000,"ascent":500,"descent":-50,"path":"M487 375c7-10 9-23 5-36l-79-259c-3-12-11-23-22-31-11-8-22-12-35-12l-263 0c-15 0-29 5-43 15-13 10-23 23-28 37-5 13-5 25-1 37 0 0 0 3 1 7 1 5 1 8 1 11 0 2 0 4-1 6 0 3-1 5-1 6 1 2 2 4 3 6 1 2 2 4 4 6 2 3 4 5 5 7 5 7 9 16 13 26 4 10 7 19 9 26 0 2 0 5 0 9-1 4-1 6 0 8 0 2 2 5 4 8 3 3 5 5 5 7 4 6 8 15 12 26 4 11 7 19 7 26 1 1 0 4 0 9-1 4-1 7 0 8 1 2 3 5 6 8 4 4 6 6 6 7 4 5 8 13 13 24 4 11 7 20 7 28 1 1 0 4 0 7-1 3-1 6-1 7 0 2 1 4 3 6 1 1 3 4 5 6 2 3 3 5 5 6 1 2 3 5 4 9 2 3 3 7 5 10 1 3 2 6 4 10 2 4 4 7 6 9 2 3 4 5 7 7 3 2 7 3 11 3 3 0 8 0 13-1l0-1c7 2 12 2 14 2l218 0c14 0 25-5 32-16 8-10 10-23 6-37l-79-259c-7-22-13-37-20-43-7-7-19-10-37-10l-248 0c-5 0-9-2-11-5-2-3-2-7 0-12 4-13 18-20 41-20l264 0c5 0 10 2 16 5 5 3 8 6 10 11l85 282c2 5 2 10 2 17 7-3 13-7 17-13z m-304 0c-1-3-1-5 0-7 1-1 3-2 6-2l174 0c2 0 4 1 7 2 2 2 4 4 5 7l6 18c0 3 0 5-1 7-1 1-3 2-6 2l-173 0c-3 0-5-1-8-2-2-2-4-4-4-7z m-24-73c-1-3-1-5 0-7 2-2 3-2 6-2l174 0c2 0 5 0 7 2 3 2 4 4 5 7l6 18c1 2 0 5-1 6-1 2-3 3-5 3l-174 0c-3 0-5-1-7-3-3-1-4-4-5-6z"},"click":"function(gd) { \n        // is this being viewed in RStudio?\n        if (location.search == '?viewer_pane=1') {\n          alert('To learn about plotly for collaboration, visit:\\n https://cpsievert.github.io/plotly_book/plot-ly-for-collaboration.html');\n        } else {\n          window.open('https://cpsievert.github.io/plotly_book/plot-ly-for-collaboration.html', '_blank');\n        }\n      }"}],"cloud":false},"data":[{"colorbar":{"title":"總人數","ticklen":2,"len":0.5,"y":1,"lenmode":"fraction","yanchor":"top"},"colorscale":[["0","rgba(255,245,240,1)"],["7.88917289911325e-06","rgba(255,245,240,1)"],["0.000157783457982265","rgba(255,245,240,1)"],["0.000497017892644135","rgba(255,245,240,1)"],["0.000646912177727287","rgba(255,245,240,1)"],["0.000820473981507779","rgba(255,245,240,1)"],["0.000899365710498911","rgba(255,245,240,1)"],["0.0015462778882262","rgba(255,245,240,1)"],["0.00213007668276058","rgba(255,245,239,1)"],["0.00414181577203446","rgba(255,244,239,1)"],["0.00552242102937928","rgba(255,244,239,1)"],["0.00803906718419641","rgba(255,244,238,1)"],["0.00989302281548802","rgba(255,243,238,1)"],["0.0106030483764082","rgba(255,243,237,1)"],["0.0140585061062198","rgba(255,243,237,1)"],["0.0180346492473729","rgba(255,242,236,1)"],["0.0194862570608097","rgba(255,242,235,1)"],["0.023060052384108","rgba(255,241,234,1)"],["0.0265076209410205","rgba(255,241,234,1)"],["0.0553188803685821","rgba(255,236,227,1)"],["0.107103411278361","rgba(254,227,214,1)"],["0.204487361545016","rgba(253,200,179,1)"],["0.342579443971094","rgba(253,157,126,1)"],["0.602322572501499","rgba(241,69,49,1)"],["1","rgba(103,0,13,1)"]],"showscale":true,"z":[21127,13582,8444,4827,3815,1488,1106,561,502,419,400,364,265,217,210,181,120,113,64,37,33,20,19,15,14,9,2,1,1],"text":["USA","AUS","JPN","CAN","GBR","DEU","NZL","POL","MYS","AUT","NLD","VNM","KOR","THA","IDN","RUS","BEL","SWE","PHL","FIN","DNK","NOR","BRN","IND","LKA","SGP","ISL","NPL","BGD"],"locations":["USA","AUS","JPN","CAN","GBR","DEU","NZL","POL","MYS","AUT","NLD","VNM","KOR","THA","IDN","RUS","BEL","SWE","PHL","FIN","DNK","NOR","BRN","IND","LKA","SGP","ISL","NPL","BGD"],"marker":{"line":{"color":"rgba(190,190,190,1)","width":0.8}},"type":"choropleth","frame":null}],"highlight":{"on":"plotly_click","persistent":false,"dynamic":false,"selectize":false,"opacityDim":0.2,"selected":{"opacity":1}},"base_url":"https://plot.ly"},"evals":["config.modeBarButtonsToAdd.0.click"],"jsHooks":{"render":[{"code":"function(el, x) { var ctConfig = crosstalk.var('plotlyCrosstalkOpts').set({\"on\":\"plotly_click\",\"persistent\":false,\"dynamic\":false,\"selectize\":false,\"opacityDim\":0.2,\"selected\":{\"opacity\":1}}); }","data":null}]}}</script>
 <!--/html_preserve-->
-![test](https://github.com/CGUIM-BigDataAnalysis/106bigdatacguimhw2-B0444125/blob/master/ccc.png) \#\# 綜合分析
+![test](/Users/bellahuang/Documents/GitHub/106bigdatacguimhw2-B0444125/ccc.png)
+
+綜合分析
+--------
 
 請問來台讀書與離台讀書的來源國與留學國趨勢是否相同(5分)？想來台灣唸書的境外生，他們的母國也有很多台籍生嗎？請圖文並茂說明你的觀察(10分)。
 
 ``` r
-library(dplyr)
-inout<-full_join(J040506,Studentout,by="國別")
-colnames(inout)<-c("洲別","國別","104年度來台灣的外國生","105年度來台灣的外國生","106年度來台灣的外國生",
-                   "前三年度來台灣的外國生","台灣學生去各國的總數")
-
 library(ggplot2)
-ggplot(inout, 
-       aes(x = 國別, y = 前三年度來台灣的外國生)) + 
+ggplot(J040506fin, 
+       aes(x = 國別, y = 三年度加總)) + 
   geom_point()+
+  labs(title="從國外來台唸書學生人數前十名",
+       x="國家",
+       y="人數")+
   theme_bw()+
   theme(text = element_text(family = "黑體-繁 中黑",size=10),
         axis.title.y = element_text(angle = 0),
-        axis.text.x = element_text(angle = 60, hjust = 1))
+        axis.text.x = element_text(angle = 40, hjust = 1))
 ```
-
-    ## Warning: Removed 69 rows containing missing values (geom_point).
 
 ![](InternationalStudents_files/figure-markdown_github/unnamed-chunk-1-1.png)
 
 ``` r
 library(ggplot2)
-ggplot(inout, 
-       aes(x = 國別, y = 台灣學生去各國的總數)) + 
+ggplot(Studentout1, 
+       aes(x = `對方學校(機構)國別(地區)`, y = 各國總人數)) + 
   geom_point()+
+  labs(title="台唸學生去各國唸書人數前十名",
+       x="國家",
+       y="人數")+
   theme_bw()+
   theme(text = element_text(family = "黑體-繁 中黑",size=10),
         axis.title.y = element_text(angle = 0),
-        axis.text.x = element_text(angle = 60, hjust = 1))
+        axis.text.x = element_text(angle = 40, hjust = 1))
 ```
 
-    ## Warning: Removed 95 rows containing missing values (geom_point).
-
 ![](InternationalStudents_files/figure-markdown_github/unnamed-chunk-1-2.png)
+
+來台讀書與離台讀書的來源國與留學國趨勢不太相同。藉由取出各前十名做圖形分析，來與去都為中國大陸，而之後的都不太相同。來台灣唸書的多半是亞洲地區的學生，我推斷有可能是因為文化、地理位置及語言都較為相近的關係，才會選擇台灣。而台灣學生去的國家分別都為亞洲、歐洲及美洲居多，有可能是因為台灣學生普遍都覺得台灣教育不像國外更有視野及國際觀，所以很多都希望能出去唸書，或是一部份為台灣起薪低的緣故，導致學生希望能出國獲得更高學歷，也更容易找份工作。
